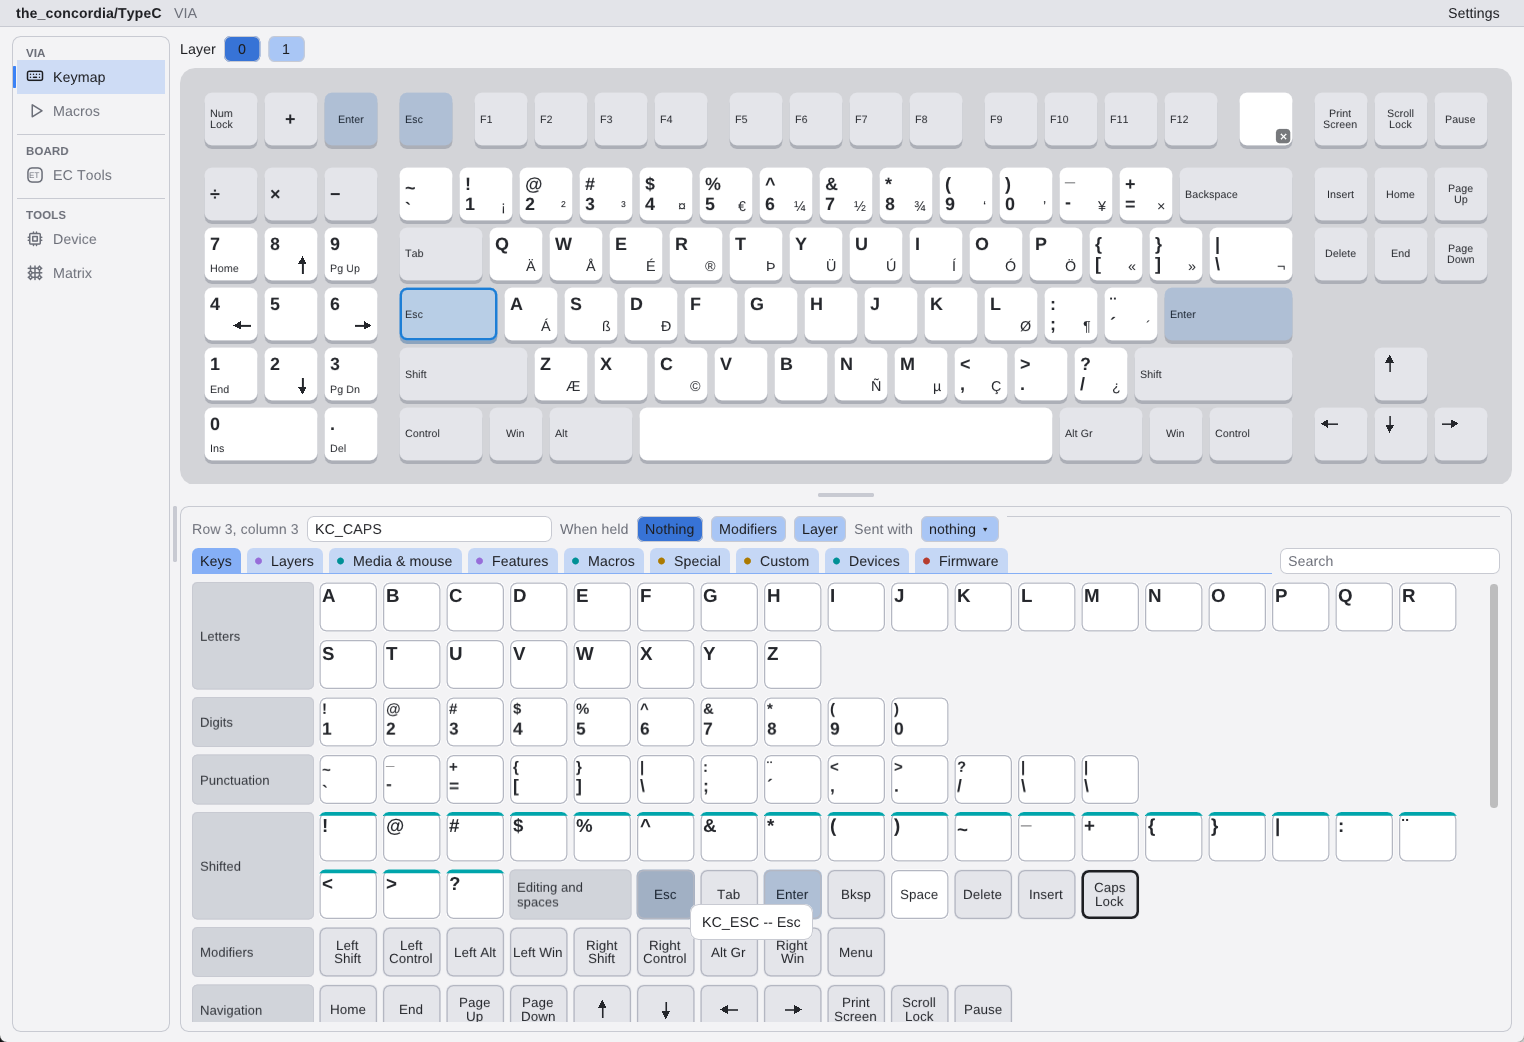
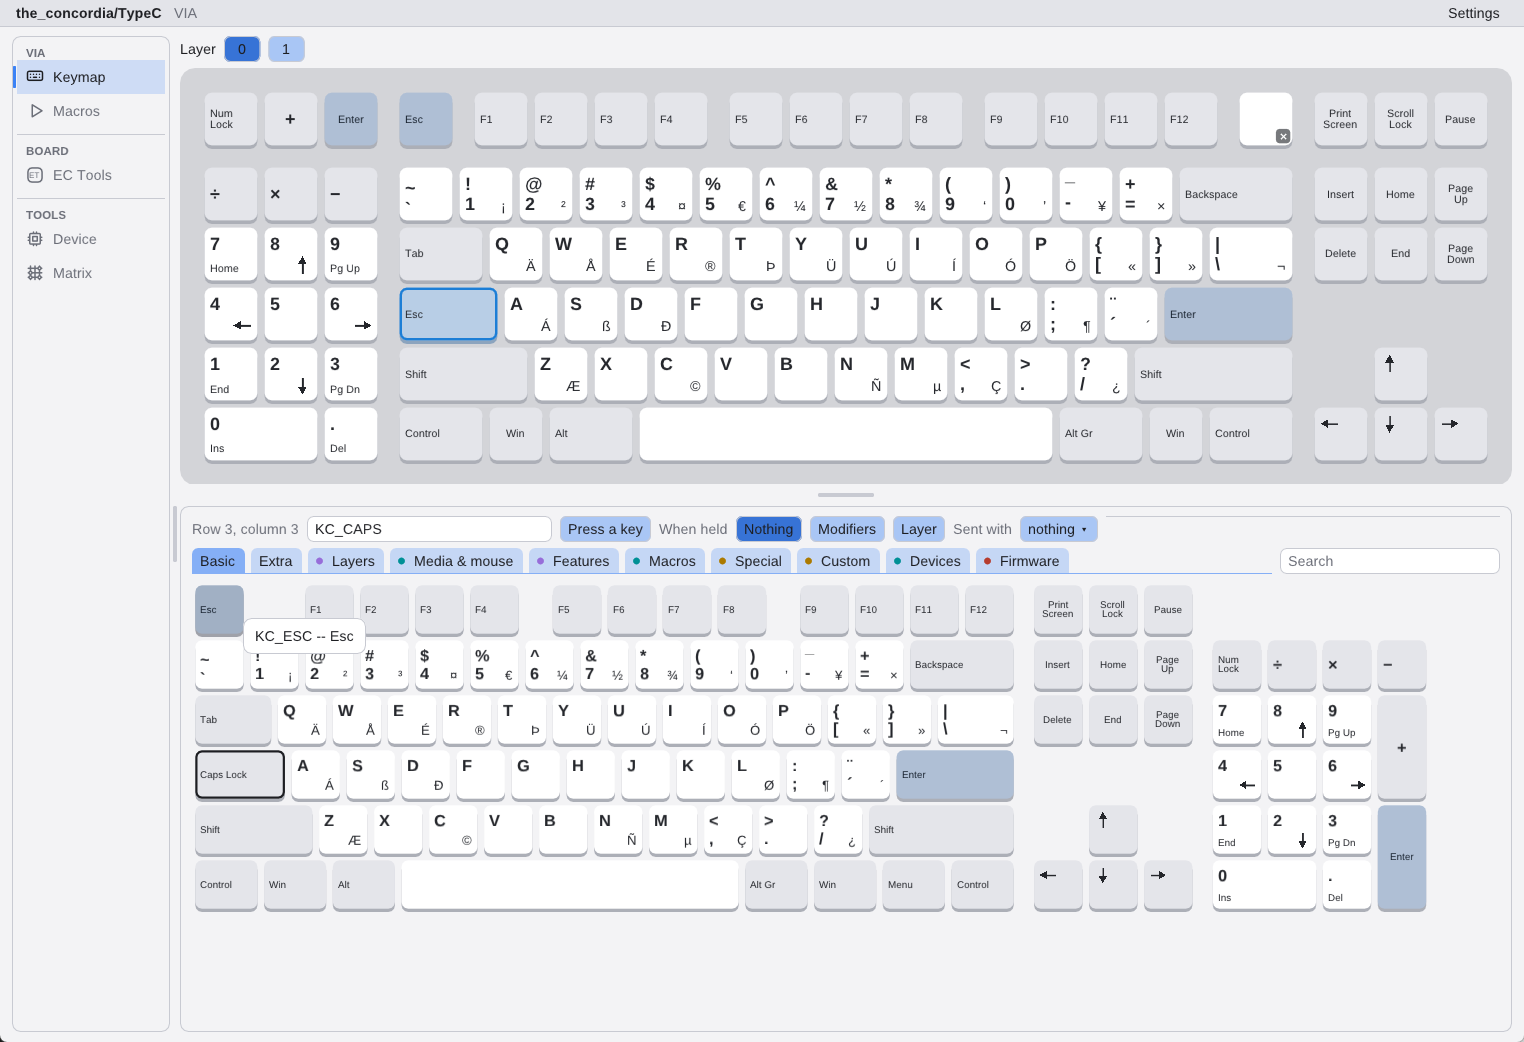
User manual: the picker's Basic and Extra tabs, pictures retaken

diff --git a/docs/user-manual.md b/docs/user-manual.md
@@ -302,7 +302,12 @@ key after each pick, as Vial does, turn on **Move to the next key after a pick**
   key to pick it. The key the selected key sends is outlined.
 - **Extra**: every other key a keyboard sends -- Transparent (▽) and None (✕) first, then
   *Shifted* symbols (`!`, `@`... in one click), F13-F24, the rarer numpad keys, international
-  keys, the rarer HID keys, and the punctuation of the other keyboard shapes.
+  keys, the rarer HID keys, and the punctuation of the other keyboard shapes. A shifted key shows
+  every symbol of its key, as in Basic; its group, or its tooltip (`LSFT(KC_1)`), says it is
+  shifted.
+
+    ![The Extra tab on a US layout: ISO keys last](user-manual/keymap-extra.png)
+
 - **Layers**: Hold, Toggle, To, Tap tog, Once, Base, Set base for each layer; one-shot modifiers;
   layer lock, tri layer.
 - **Media & mouse**: media, volume, brightness, system and app keys; mouse movement, buttons,
@@ -321,7 +326,7 @@ The **search box** looks through every tab, by name, by QMK name (`KC_ESC`) or b
 key or a tile to see its QMK name. **While the tooltip shows, the selected key previews what the click
 would write**, outlined in blue.
 
-![The Esc tile hovered: Caps Lock previews Esc, in blue](user-manual/keymap-preview.png)
+![Esc hovered in Basic: Caps Lock previews Esc, in blue](user-manual/keymap-preview.png)
 
 Only what the board can use is offered: no lighting keys on a board without lighting, no more
 macro keys than it has macros. Keys the board cannot tell about, such as audio or Unicode, are
